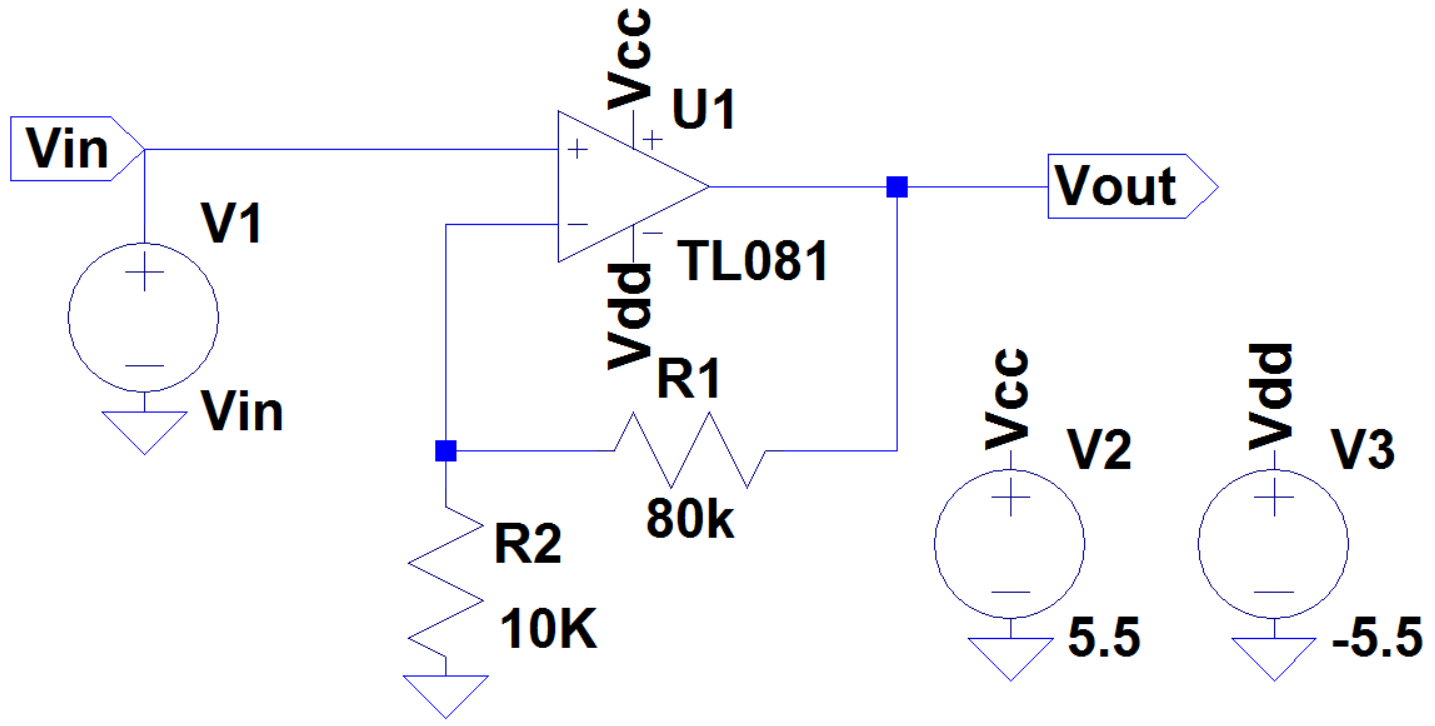
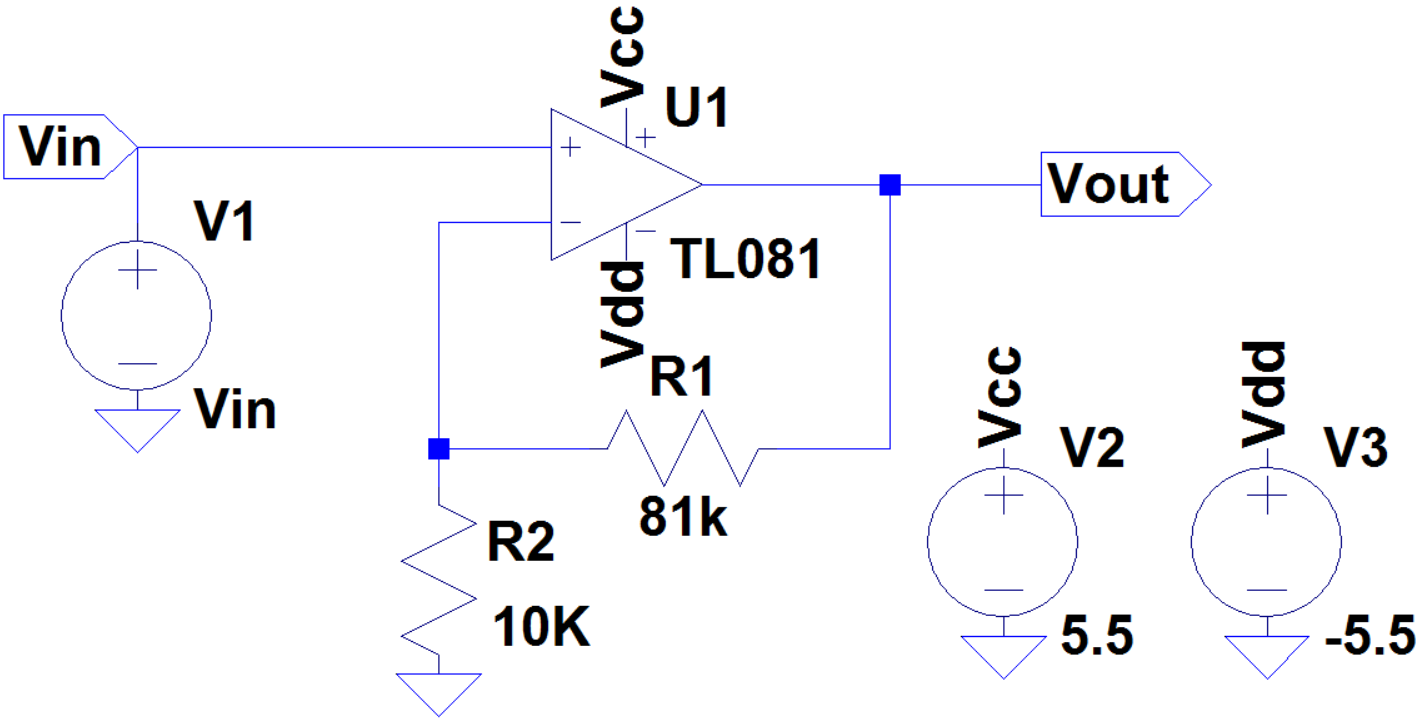
rettelser

diff --git a/rapportAfsnit/eProblemloesning/Design/Forstaerker/Forstaeker_faktor3.tex b/rapportAfsnit/eProblemloesning/Design/Forstaerker/Forstaeker_faktor3.tex
@@ -1,33 +1,33 @@
 % !TeX spellcheck = da_DK
 \subsection{Forstærker i tilpasningsblok}
 \subsubsection{Teori og design}
-Jævnfør i afsnit \ref{Subsec:Forstaerker} på side \pageref{Subsec:Forstaerker} er der forklaret teorien samt designet af en forstærker, hvilket også gør sig gældende her. Da denne blok skal tilpasse det filtrerede signal til komparatoren, afgrænses måleintervallet til $\pm25^{\circ}$. Et range på $\pm90^{\circ}$ er unødvendigt ift. at vurdere hvorvidt patienten er faldet. Derfor ønskes det, at $V_{out}$ fra denne forstærker er $\pm3$V, når accelerometret måler $\pm25^{\circ}$. Denne forstærkning skal derved forstærke med en faktor 3, hvilket svarer til $9.5424$dB, som beskrevet i afsnit \ref{Tilpasningsblok} på side \pageref{Tilpasningsblok}. \\
+Jævnfør i afsnit \ref{Subsec:Forstaerker} på side \pageref{Subsec:Forstaerker} er der forklaret teorien samt designet af en forstærker, hvilket også gør sig gældende her. Da denne blok skal tilpasse det filtrerede signal til komparatoren, afgrænses måleintervallet til $\pm25^{\circ}$. Et range på $\pm90^{\circ}$ er unødvendigt ift. at vurdere hvorvidt patienten er faldet. Derfor ønskes det, at $V_{out}$ fra denne forstærker er $\pm3$V, når accelerometret måler $\pm25^{\circ}$. Denne forstærkning skal derved forstærke med en faktor $3.6$, hvilket svarer til $11.1261$dB, som beskrevet i afsnit \ref{Tilpasningsblok} på side \pageref{Tilpasningsblok}. \\
 For at udregne modstandene er R$2$ blevet valgt til $10$K$\Omega$. Ud fra dette er R$1$ blevet bestemt ved følgende udregning:
 \begin{align}
-3 = 1 + (\frac{R1}{10\text{K}\Omega})\\
-R1 = 20\text{K}\Omega
+3.6 = 1 + (\frac{R1}{10\text{K}\Omega})\\
+R1 = 26\text{K}\Omega
 \end{align}
 
 \noindent Forstærkerens opbygning kan ses på \figref{fig:Forstaerker_faktor3}.
 \begin{figure}[H]
 	\centering
 	\includegraphics[scale=0.3]{figures/cProblemloesning/Forstaerker_faktor3.PNG}
-	\caption{På figuren ses den ikke-inverterende opbygningen af forstærkeren, hvor der sker en forstærkning med en faktor $3$.}
+	\caption{På figuren ses den ikke-inverterende opbygningen af forstærkeren, hvor der sker en forstærkning med en faktor $3.6$.}
 	\label{fig:Forstaerker_faktor3}
 \end{figure}
 
 \subsubsection{Simulering}
-Denne forstærker undersøges i fire simuleringer for, hvorledes forstærkeren virker. Det forstærkede signal, kaldet $V_{out}$, skal være $3$ gange større end $V_{in}$. Resultaterne af fire simuleringer ses i \tableref{tab:forstarker3_simT}. Der er benyttet de teoretiske værdier, som er udregnet fra start.
+Denne forstærker undersøges i fire simuleringer for, hvorledes forstærkeren virker. Det forstærkede signal, kaldet $V_{out}$, skal være $3.6$ gange større end $V_{in}$. Resultaterne af fire simuleringer ses i \tableref{tab:forstarker3_simT}. Der er benyttet de teoretiske værdier, som er udregnet fra start.
 \begin{table}[H]
 	\centering
 	\begin{tabular}{|l|l|l|l|l|l|}
 		\hline
 		\multicolumn{1}{|c|}{\textit{Inputsignalet}} & \multicolumn{1}{c|}{\textit{Forstærkning}} & \textit{\begin{tabular}[c]{@{}l@{}}Forventet\\outputsignal\end{tabular}} & \multicolumn{1}{c|}{\textit{Outputsignalet}} & \textit{Forstærkning}  & \multicolumn{1}{c|}{\textit{Afvigelse}} \\ \hline
-		$2.7096$V     & 3   & \begin{tabular}[c]{@{}l@{}}Forventer mætning\\ $8.1288$V\end{tabular}  & $3.9765$V  & $\times$ & $\times$     \\ \hline
-		$0.8325$V     & 3   & $2.4975$V                                                              & $2.4975$V  & $3$ & $0\%$     \\ \hline
+		$3.0148$V     & $3.6$   & \begin{tabular}[c]{@{}l@{}}Forventer mætning\\ $10.8533$V\end{tabular} & $3.9765$V  & $\times$ & $\times$     \\ \hline
+		$0.8418V$V    & $3.6$   & $3.0305$V                                                              & $3.0304$V  & $3.6$ & $0\%$     \\ \hline
 %		$0$V          & 3   & $0$V                                                                   & $33.6527\mu $V        & $\approx 0\%$     \\ \hline
-	   -$0.8100$V     & 3   & -$2.4300$V                                                             & -$2.4299$V  & $3$ & $0.004\%$     \\ \hline
-	   -$2.6388$V     & 3   & \begin{tabular}[c]{@{}l@{}}Forventer mætning\\ -$7.9164$V\end{tabular} & -$3.9770$V  & $\times$ & $\times$     \\ \hline
+	   -$0.8190$V     & $3.6$   & -$2.9484$V                                                             & -$2.9482$V  & $3.6$ & $0\%$     \\ \hline
+	   -$2.9420$V     & $3.6$   & \begin{tabular}[c]{@{}l@{}}Forventer mætning\\ -$10.5912$V\end{tabular}& -$3.97703$V  & $\times$ & $\times$     \\ \hline
 	\end{tabular}
 		\caption{I tabellen ses resultaterne af de fire simuleringer.}
 		\label{tab:forstarker3_simT}
@@ -37,7 +37,7 @@ Der ses i \tableref{tab:forstarker3_simT} , at der ingen afvigelse er i forstær
 \begin{figure}[H]
 	\centering
 	\includegraphics[scale=0.3]{figures/cProblemloesning/Forstaerker_faktor3_simulering.PNG}
-	\caption{På figuren ses simuleringen af $0.8325$V input, som giver $2.4975$V i output. Der er altså sket en forstærkning med en faktor $3$.}
+	\caption{På figuren ses simuleringen af $0.8418$V input, som giver $3.0304$V i output. Der er altså sket en forstærkning med en faktor $3.6$.}
 	\label{fig:faktor3_simulering}
 \end{figure}
 \noindent Der ses på afvigelserne, at der arbejdes med ideelle komponenter. Det er herved bevist, at kredsløbet fungerer teoretisk og kan derfor implementeres.

diff --git a/rapportAfsnit/eProblemloesning/Design/Forstaerker/Forstaeker_faktor18.tex b/rapportAfsnit/eProblemloesning/Design/Forstaerker/Forstaeker_faktor18.tex
@@ -10,17 +10,17 @@ Kredsløbet består af en operationsforstærker kaldet TL081, som er den operati
 \label{fig:Forstaerker}
 \end{figure} 
 
-\noindent Der er jævnført i afsnit \ref{OpsamlingsAfs} på side \pageref{OpsamlingsAfs} bestemt, at forstærkningen skal være en faktor $9$, hvilket svarer til $19.0849$dB. For at udregne R$1$ er R$2$ modstanden blevet valgt til $10$K$\Omega$. Ud fra dette er R$1$ blevet bestemt ved følgende udregning:
+\noindent Der er jævnført i afsnit \ref{OpsamlingsAfs} på side \pageref{OpsamlingsAfs} bestemt, at forstærkningen skal være en faktor $9.1$, hvilket svarer til $19.1808$dB. For at udregne R$1$ er R$2$ modstanden blevet valgt til $10$K$\Omega$. Ud fra dette er R$1$ blevet bestemt ved følgende udregning:
 \begin{align}
 9 = 1 + (\frac{R1}{10\text{K}\Omega})\\
-R1 = 80\text{K}\Omega
+R1 = 81\text{K}\Omega
 \end{align}
 
 \noindent R$1$ og R$2$ bliver brugt til at designe kredsløbet for en ikke-inverterende operations forstærker. Dette kredsløb designes i LT-spice, som ses på \figref{fig:Forstaerker_faktor18}. 
 \begin{figure}[H]
 \centering
 \includegraphics[scale=0.3]{figures/cProblemloesning/Forstaerker_faktor18.PNG}
-\caption{Kredsløbet for en ikke-inverterende forstærker med to modstande, R$1$ og R$2$, som med værdierne $10$K$\Omega$ og $80$K$\Omega$ giver en forstærkning med en faktor $9$.}
+\caption{Kredsløbet for en ikke-inverterende forstærker med to modstande, R$1$ og R$2$, som med værdierne $10$K$\Omega$ og $81$K$\Omega$ giver en forstærkning med en faktor $9.1$.}
 \label{fig:Forstaerker_faktor18}
 \end{figure} 
 
@@ -30,20 +30,20 @@ Der undersøges i to simuleringer, om forstærkeren virker ved det laveste input
 \begin{figure}[H]
 \centering
 \includegraphics[scale=0.3]{figures/cProblemloesning/Forstaerker_faktor18_simulering.PNG}
-\caption{På figuren ses en simuleringen af en ikke-inverterende forstærker, hvor der sker en forstærkning med en faktor $9$. Inputtet, $V_{in}$, er $0.3313$V, som bliver forstærket $9$ gange og derved giver ca. $2.9817$V i outputtet, $V_{out}$.}
+\caption{På figuren ses en simuleringen af en ikke-inverterende forstærker, hvor der sker en forstærkning med en faktor $9.1$. Inputtet, $V_{in}$, er $0.3313$V, som bliver forstærket $9.1$ gange og derved giver ca. $3.0147$V i outputtet, $V_{out}$.}
 \label{fig:Forstaerker_faktor18_simulering}
 \end{figure}
 
-Der kan ses på \figref{fig:Forstaerker_faktor18_simulering}, at det forstærkede signal, kaldet $V_{out}$, er ca. $2.9817$V, hvilket er $9$ gange større end $V_{in}$, som i simuleringen er sat til $0.3313$V. Derved er der sket den ønskede forstærkning, hvilket var forventet, da simuleringen er med ideelle komponenter. Derfor har de enkelte komponenter i denne simulering næsten ingen tolerance, hvilket reelle komponenter i et reelt kredsløb vil have mere af. \\
+Der kan ses på \figref{fig:Forstaerker_faktor18_simulering}, at det forstærkede signal, kaldet $V_{out}$, er ca. $3.0147$V, hvilket er $9.1$ gange større end $V_{in}$, som i simuleringen er sat til $0.3313$V. Derved er der sket den ønskede forstærkning, hvilket var forventet, da simuleringen er med ideelle komponenter. Derfor har de enkelte komponenter i denne simulering næsten ingen tolerance, hvilket reelle komponenter i et reelt kredsløb vil have mere af. \\
 Resultaterne af de to simuleringer ses i \tableref{tab:forstarker18_sim}
 \begin{table}[H]
 	\centering
 	\begin{tabular}{|l|l|l|l|l|}
 		\hline
 		\multicolumn{1}{|c|}{\textit{Inputsignalet}} & \multicolumn{1}{c|}{\textit{Forstærkning}} & \multicolumn{1}{c|}{Outputsignalet} &  \textit{Målte forstærkning}   & \textit{\begin{tabular}[c]{@{}l@{}}\% afvigelse\\ i forstærkning\end{tabular}} \\ \hline
-		$0.3313$V      & $9$   & $2.9816$V    &  $8.99$  &   $0.1\%$  \\ \hline
+		$0.3313$V      & $9.1$   & $3.0147$V    &  $9.10$  &   $0\%$  \\ \hline
 %		$0$V           & 10       & $0$V          & $0.000206$V         & $0.0206$\%       \\ \hline
-		-$0.3233$V     & $9$   & -$2.9094$V   &  $8.99$  &   $0.1\%$  \\ \hline
+		-$0.3233$V     & $9.1$   & -$2.9417$V   &  $9.10$  &   $0\%$  \\ \hline
 	\end{tabular}
 	\caption{Her ses resultaterne for simuleringerne med det laveste- og højeste input.}
 	\label{tab:forstarker18_sim}

diff --git a/rapportAfsnit/eProblemloesning/Kravspecifikation_Specifikke.tex b/rapportAfsnit/eProblemloesning/Kravspecifikation_Specifikke.tex
@@ -72,9 +72,9 @@ Blokken tilpasning har til formål at tilpasse det filtrerede signal til kompara
 \end{align}
 Forstærkerens faktor samt gain i dB udregnes i \eqref{TilpasEq2} og \eqref{TilpasEq3}.
 \begin{align}
-\label{TilpasEq1} 0.0925V \cdot 9 = 0.8325V \\
-\label{TilpasEq2} \dfrac{3V}{0.8325V} = 3.6036 \approx 3.6 \\
-\label{TilpasEq3} 20 \cdot log_{10} (3) = 11.1261\text{dB}
+\label{TilpasEq1} 0.0925V \cdot 9.1 = 0.8418V \\
+\label{TilpasEq2} \dfrac{3V}{0.8418V} = 3.5638 \approx 3.6 \\
+\label{TilpasEq3} 20 \cdot log_{10} (3.6) = 11.1261\text{dB}
 \end{align} 
 I \eqref{TilpasEq1}, \eqref{TilpasEq2} og \eqref{TilpasEq3} er de $3V$ grænsen for arbejdsområdet. Der forstærkes med en faktor $3.6$. \\
 
